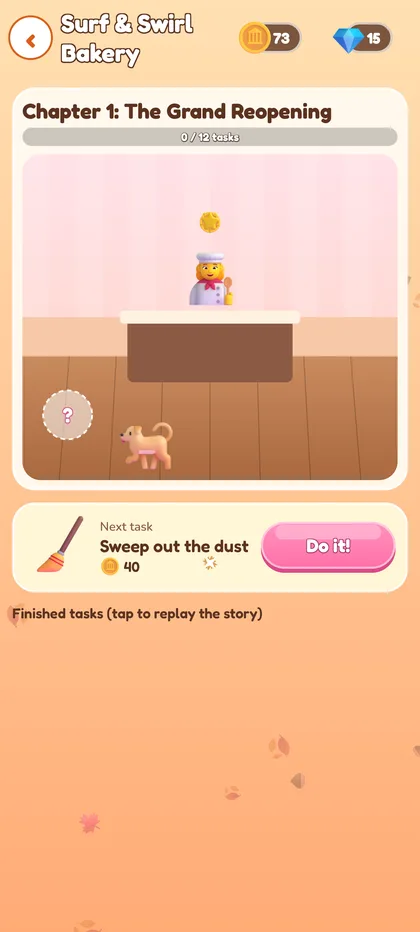
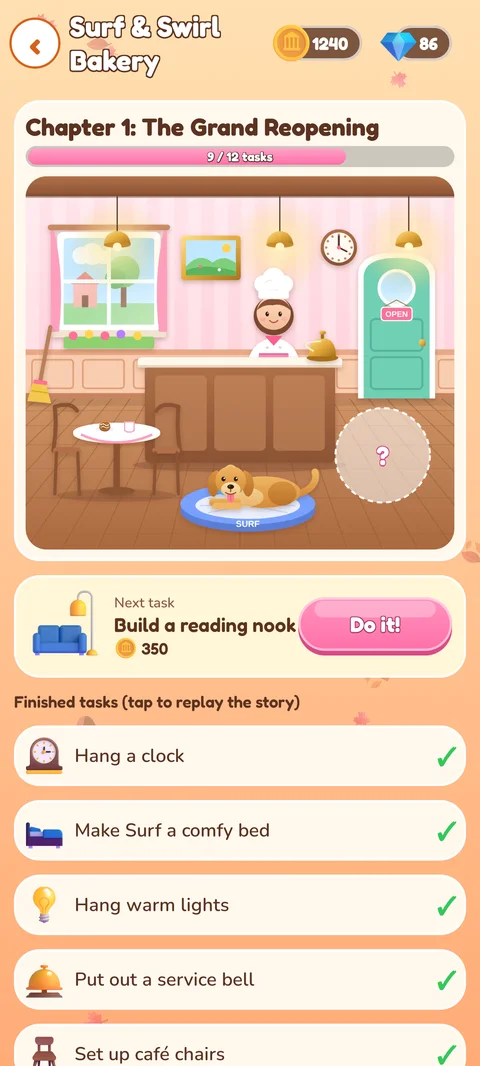
Bakery page: new screenshots with the hand-drawn art, no stretching
Screenshots of a game in progress (board, bakery, patio, shop) at their real
proportions, Surf's and Mandy's new portraits, and a line about the live music.

Claude-Session: https://claude.ai/code/session_015NRmUMqxbxTPu9wBLAswX3

diff --git a/bakery/index.html b/bakery/index.html
@@ -118,7 +118,8 @@
 
   .shots { display: flex; gap: 12px; overflow-x: auto; padding: 4px 2px 12px; scroll-snap-type: x mandatory; }
   .shots img {
-    flex: 0 0 auto; width: 46%; max-width: 210px; border-radius: 18px; border: 3px solid #fff;
+    flex: 0 0 auto; width: 46%; max-width: 210px; height: auto; aspect-ratio: 480 / 1066;
+    border-radius: 18px; border: 3px solid #fff;
     box-shadow: var(--shadow); scroll-snap-align: start; background: var(--cream);
   }
 
@@ -142,7 +143,7 @@
     <div class="hero__art" aria-hidden="true">
       <img class="hero__spark" src="img/sparkles.webp" alt="">
       <img class="hero__roll" src="img/iced_roll.webp" alt="">
-      <img class="hero__dog" src="img/dog_face.webp" alt="">
+      <img class="hero__dog" src="img/surf_face.webp" alt="">
     </div>
     <h1>Surf &amp; Swirl<br>Bakery</h1>
     <p class="tagline">A cozy merge game for Mandy, where everything smells like cinnamon rolls.</p>
@@ -164,7 +165,7 @@
   </section>
 
   <section class="card" aria-labelledby="install-title">
-    <h2 id="install-title"><img src="img/woman_cook.webp" alt="">How to install</h2>
+    <h2 id="install-title"><img src="img/mandy_face.webp" alt="">How to install</h2>
     <ol>
       <li>Tap <strong>Download for Android</strong> above.</li>
       <li>When it finishes, tap the download notification (or open <strong>My Files → Downloads</strong>) and tap <strong>surf-and-swirl.apk</strong>.</li>
@@ -177,12 +178,14 @@
   <section class="card" aria-labelledby="peek-title">
     <h2 id="peek-title"><img src="img/croissant.webp" alt="">A peek inside</h2>
     <div class="shots">
-      <img src="img/shot-board.webp" alt="The merge board with orders from customers" loading="lazy" width="420" height="933">
-      <img src="img/shot-bakery.webp" alt="Fixing up the bakery, with Mandy and Surf" loading="lazy" width="420" height="933">
-      <img src="img/shot-puzzle.webp" alt="Picking a brain puzzle to pay for a shop treat" loading="lazy" width="420" height="933">
+      <img src="img/shot-board.webp" alt="The merge board, with customers waiting for their orders" loading="lazy" width="480" height="1066">
+      <img src="img/shot-bakery.webp" alt="Fixing up the bakery: Mandy behind the counter and Surf napping in his bed" loading="lazy" width="480" height="1066">
+      <img src="img/shot-patio.webp" alt="Chapter 2: Surf's sunny patio" loading="lazy" width="480" height="1066">
+      <img src="img/shot-shop.webp" alt="The Brain Shop, where treats cost puzzles instead of money" loading="lazy" width="480" height="1066">
     </div>
     <ul class="features">
-      <li><img src="img/cupcake.webp" alt="">Merge treats, serve customers and fix up the bakery on Maple Lane.</li>
+      <li><img src="img/cupcake.webp" alt="">Merge treats, serve customers and fix up the bakery on Maple Lane, one hand-drawn room at a time.</li>
+      <li><img src="img/sparkles.webp" alt="">Music composed live as you play: café tunes by day, softer at night, and its own song for every event.</li>
       <li><img src="img/brain.webp" alt="">No money, ever. Shop treats cost brain puzzles instead.</li>
       <li><img src="img/ticket.webp" alt="">Daily rewards, a season pass and a VIP pass you earn with a Brain Gauntlet.</li>
       <li><img src="img/maple_leaf.webp" alt="">Seasonal events and themes all year round.</li>
@@ -191,7 +194,7 @@
 
   <footer>
     Made with love for Mandy (and Surf). Works offline, no ads, no accounts.<br>
-    Item art: <a href="https://github.com/microsoft/fluentui-emoji" rel="noopener">Microsoft Fluent Emoji</a> (MIT).
+    Item art: <a href="https://github.com/microsoft/fluentui-emoji" rel="noopener">Microsoft Fluent Emoji</a> (MIT). Scenes, Mandy, Surf and music made for the game.
   </footer>
 </div>
 
